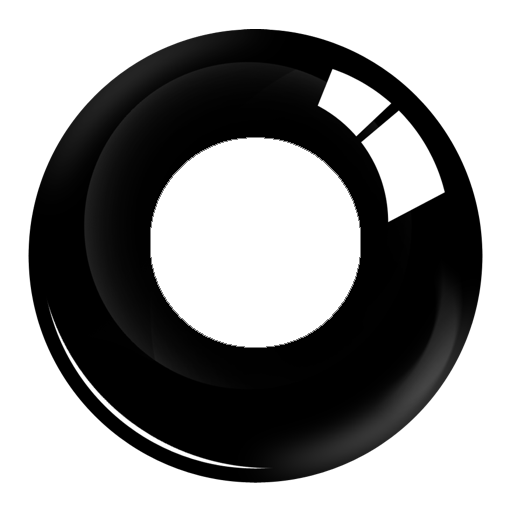
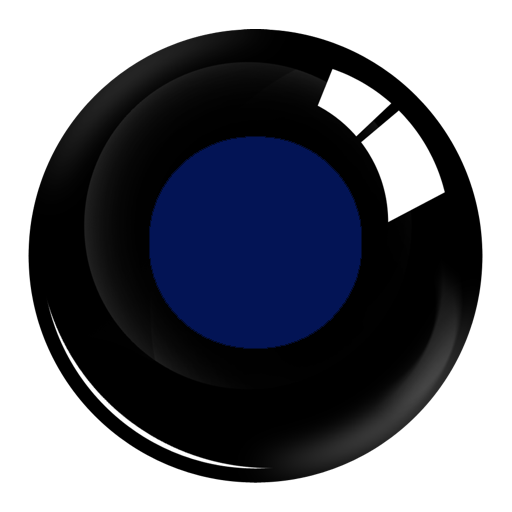
fixed layout and input response

Changed region(s): [[0.2812, 0.25, 0.7188, 0.6875]]

diff --git a/src/App.js b/src/App.js
@@ -1,12 +1,13 @@
 import './App.css';
 import { useState, useEffect } from 'react';
-import Images from "./Images.js"
-import FortuneReveal from './FortuneReveal'
+import Images from "./Images.js";
+import FortuneReveal from './FortuneReveal';
 import Input from './Input';
 
 function App() {
   const [fortune, setFortune] = useState('');
-  const [isActive] = useState(false)
+  const [isActive, setIsActive] = useState(false);
+  
 
   useEffect(() => {
     // getResults();
@@ -18,29 +19,35 @@ function App() {
         return response.json()
       })
       .then(jsonResponse => {
-        console.log("jsonResponse", jsonResponse)
-        setFortune(jsonResponse.magic.answer)
+        console.log("jsonResponse", jsonResponse);
+        setFortune(jsonResponse.magic.answer);
+        document.querySelector('input').value="";
       })
-
+   
   }
 
   
 
   return (
     <main>
-      <div>
-        <h1>magic 8 ball time</h1>
-        <Input/>
-        <Images />
-        <button type="submit" value="submit" onClick={getResults} className={isActive ? "active" : ""}>click to get fortune</button> 
-        {
-          fortune && 
-          <div className="clicked-fortune">
-            <FortuneReveal/>
-            <p className="fortune-message clicked">{fortune}</p>
-          </div>
-        };
-      </div>
+      <section className="info">
+          <h1>magic 8 ball time</h1>
+          <p>Type your question below</p>
+      </section>
+      <section>
+        <div>
+          <Images />
+          <Input />
+          <button type="submit" value="submit" onClick={getResults} className={isActive ? "active" : ""}>click to get fortune</button> 
+          {
+            fortune && 
+            <div className="clicked-fortune">
+              <FortuneReveal/>
+              <p className="fortune-message clicked">{fortune}</p>
+            </div>
+          }
+        </div>
+      </section>
     </main>
   )
 }

diff --git a/src/App.css b/src/App.css
@@ -12,12 +12,15 @@ body {
   height: 100vh;
 }
 
-.magic-eight-ball {
-    display: block;
-    position: relative;
+main {
+  display: flex;
 }
+.info,
+.eight-ball {
+  width: 50%;
+}
+
 img {
-    position: absolute;
     max-width: 100%;
     margin-left: auto;
     margin-right: auto;
@@ -26,36 +29,43 @@ img {
     right: 0;
     text-align: center;
 }
-
-.bottom {
-    z-index: 0;
-}
   
   .top {
     z-index: 2;
   }
   
-  .clicked-fortune {
+  .magic-eight-ball {
     position: relative;
   }
   
-  .clicked-fortune img {
+  .fortune-appear img {
     position: relative;
     z-index: 1;
     display: block;
-    top: -50px;
-    z-index: 1;
+    z-index: 4;
     opacity: 100%;
+    top: -310px;
 }
-.fortune-message {
-  font-size: 0.9rem;
+
+.ball {
+  /* font-size: 0.9rem; */
   position: relative;
   display: block;
   color: white;
-  margin-top: -320px;
-  z-index: 10;
+  width: 100%;  
   text-align: center;
 }
+
+.ball p {
+  position: relative;
+  font-size: 30px;
+  z-index: 100;
+  width: 30%;
+  margin: 0 auto;
+}
+
+/* .fortune-message {
+} */
 
 input {
   display: flex;
@@ -65,13 +75,16 @@ input[type="text"]{
   font-size: 30px;
 }
 
+.results {
+  display: flex;
+}
 
-
-
+ button {
+  margin: 0 auto;
+}
 
 .clicked {
     /* opacity: 100%; */
-    /* animation: shake 0.5s; */
     animation: fadeIn ease 1.5s, shake 0.8s;
     -webkit-animation: fadeIn ease 1.5s , shake 0.8s;
     -moz-animation: fadeIn ease 1.5s , shake 0.8s;

diff --git a/src/Input.js b/src/Input.js
@@ -1,6 +1,10 @@
-function Input( ) {
+import React from 'react';
+
+
+const Input = () => {
+
     return (
-        <div className="question-contaainer">
+        <div className="question-container">
             <label htmlFor="question">Type your question below</label>
             <input type="text" id="question"/>
         </div>

diff --git a/src/Images.js b/src/Images.js
@@ -3,7 +3,6 @@
 function Images() {
     return (
       <div className="magic-eight-ball">
-          <img src="./assets/8ballinside.png" alt="blue element inside 8 ball" className="bottom"/>
           <img src="./assets/8balltop.png" alt="the outside of the 8ball" className="top"/>
       </div>
     )
